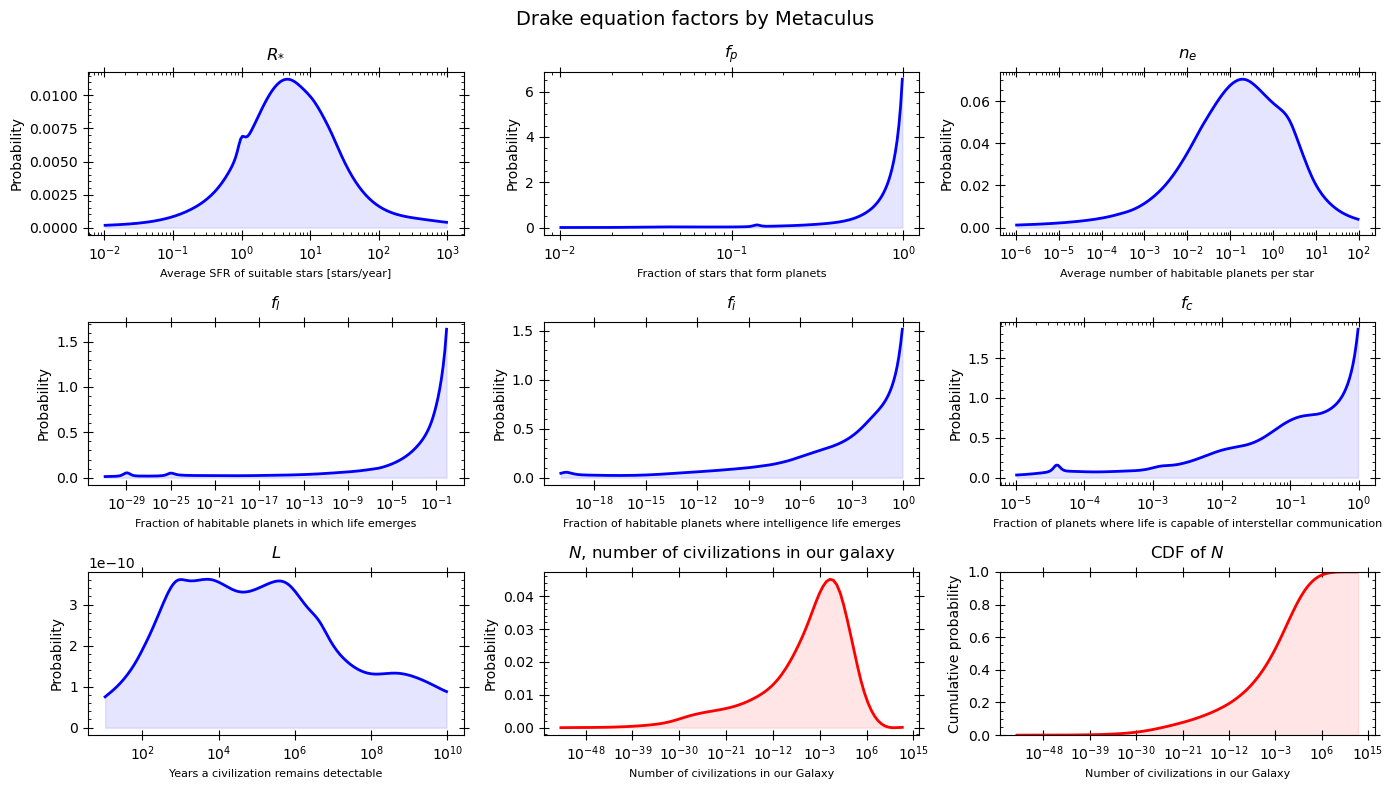
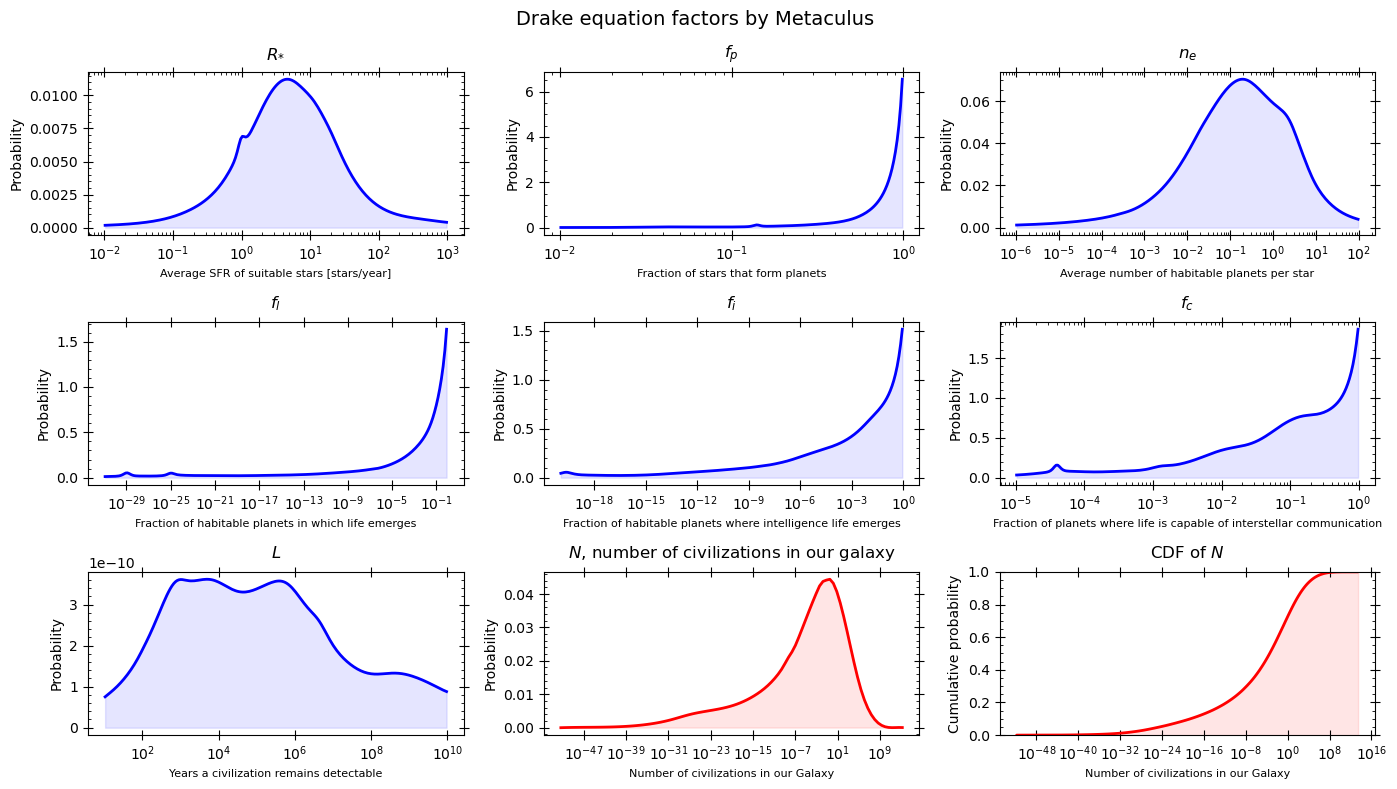
Deleção de algumas linhas vazias.

diff --git a/Drake_Metaculus.py b/Drake_Metaculus.py
@@ -14,12 +14,11 @@ url_ne = "https://www.metaculus.com/api2/questions/1339/download_csv/"
 url_fl = "https://www.metaculus.com/api2/questions/1340/download_csv/"
 url_fi = "https://www.metaculus.com/api2/questions/1341/download_csv/"
 url_fc = "https://www.metaculus.com/api2/questions/1342/download_csv/"
-url_L = "https://www.metaculus.com/api2/questions/1343/download_csv/"
-
+url_L  = "https://www.metaculus.com/api2/questions/1343/download_csv/"
 
 quantity = 10**6 # quantity of data in the simulation
 
-# function to read, format, reduce, and transform data
+# function to read, format, reduce, and transform the data
 def cdf_setter(url, xmin, xmax, q = 1000):
 
      # dataframe for use later
@@ -375,27 +374,24 @@ plot(ax = ax7,
 
 #----------------------
 # N smooth
-
 # Normalizing histogram counts
 log_bin_edges = np.logspace(np.log10(min(N_cdf)), np.log10(max(N_cdf)), 101)
 
-counts, _ = np.histogram(N_cdf, bins = log_bin_edges) #counts, bins
+counts, _ = np.histogram(N_cdf, bins = log_bin_edges) # counts, bins
 
 log_bin_widths = np.diff(log_bin_edges)
 total_observations = counts.sum()
-density = counts / total_observations#(log_bin_widths * total_observations)
+density = counts / total_observations
 
 # Interpolating on the data from the histogram
 log_bin_midpoints = (log_bin_edges[:-1] + log_bin_edges[1:]) / 2
 bin_midpoints = np.log10(log_bin_midpoints)
-interpolation = inter.UnivariateSpline(bin_midpoints, density, s = 10**-6)
+interpolation = inter.UnivariateSpline(bin_midpoints, density, s = 5*10**-7)
 
 # Data for the smooth curve
 bin_edges = np.log10(log_bin_edges[1:])
 N_PDF = interpolation(bin_edges)
 
-#verification = simps(N_PDF, log_bin_edges[1:])
-#print(verification)
 #-----------
 ax8.plot(log_bin_midpoints, N_PDF, 
          color = "red", 
@@ -443,8 +439,6 @@ ax9.tick_params(which = "minor", direction = "in", length = 2)
 ax9.tick_params(which = "both", bottom = True, top = True, left = True, right = True)
 ax9.tick_params(labelbottom = True, labeltop = False, labelleft = True, labelright = False)
 
-#ecdft = ECDF(N_cdf)
-#points = np.logspace(start = -40, stop = 11, num = 1000)
 ax9.fill_between(logbins, ecdft(logbins), color = "red", alpha = 0.1)
 
 #----------------------
@@ -589,7 +583,7 @@ ax2.vlines(x = 1,
 # {:.0f} formats the number to have 0 places after the decimal, effectively making it an integer
 probability_alone_MW = ecdft(1)*100
 formatted_probability = f"{probability_alone_MW:.0f}%"
-text = "Probability to be alone \nin the Milky Way galaxy: \n$N = 1$: " + formatted_probability
+text = "Probability to be alone \nin the Milky Way galaxy: \n($N = 1$): " + formatted_probability
 ax2.text(10**-27, 0.7, text, fontsize = 10)
 
 #---------
@@ -613,7 +607,7 @@ ax2.vlines(x = 5*10**-13,
 # {:.0f} formats the number to have 0 places after the decimal, effectively making it an integer
 probability_alone_OU = ecdft(5*10**-13)*100
 formatted_probability = f"{probability_alone_OU:.0f}%"
-text = "Probability to be alone \nin the observable Universe: \n$N = 5 \\times 10^{{-13}}$: " + formatted_probability
+text = "Probability to be alone \nin the observable Universe: \n($N = 5 \\times 10^{{-13}}$): " + formatted_probability
 ax2.text(10**-42, 0.15, text, fontsize = 10)
 
 #----------------------
